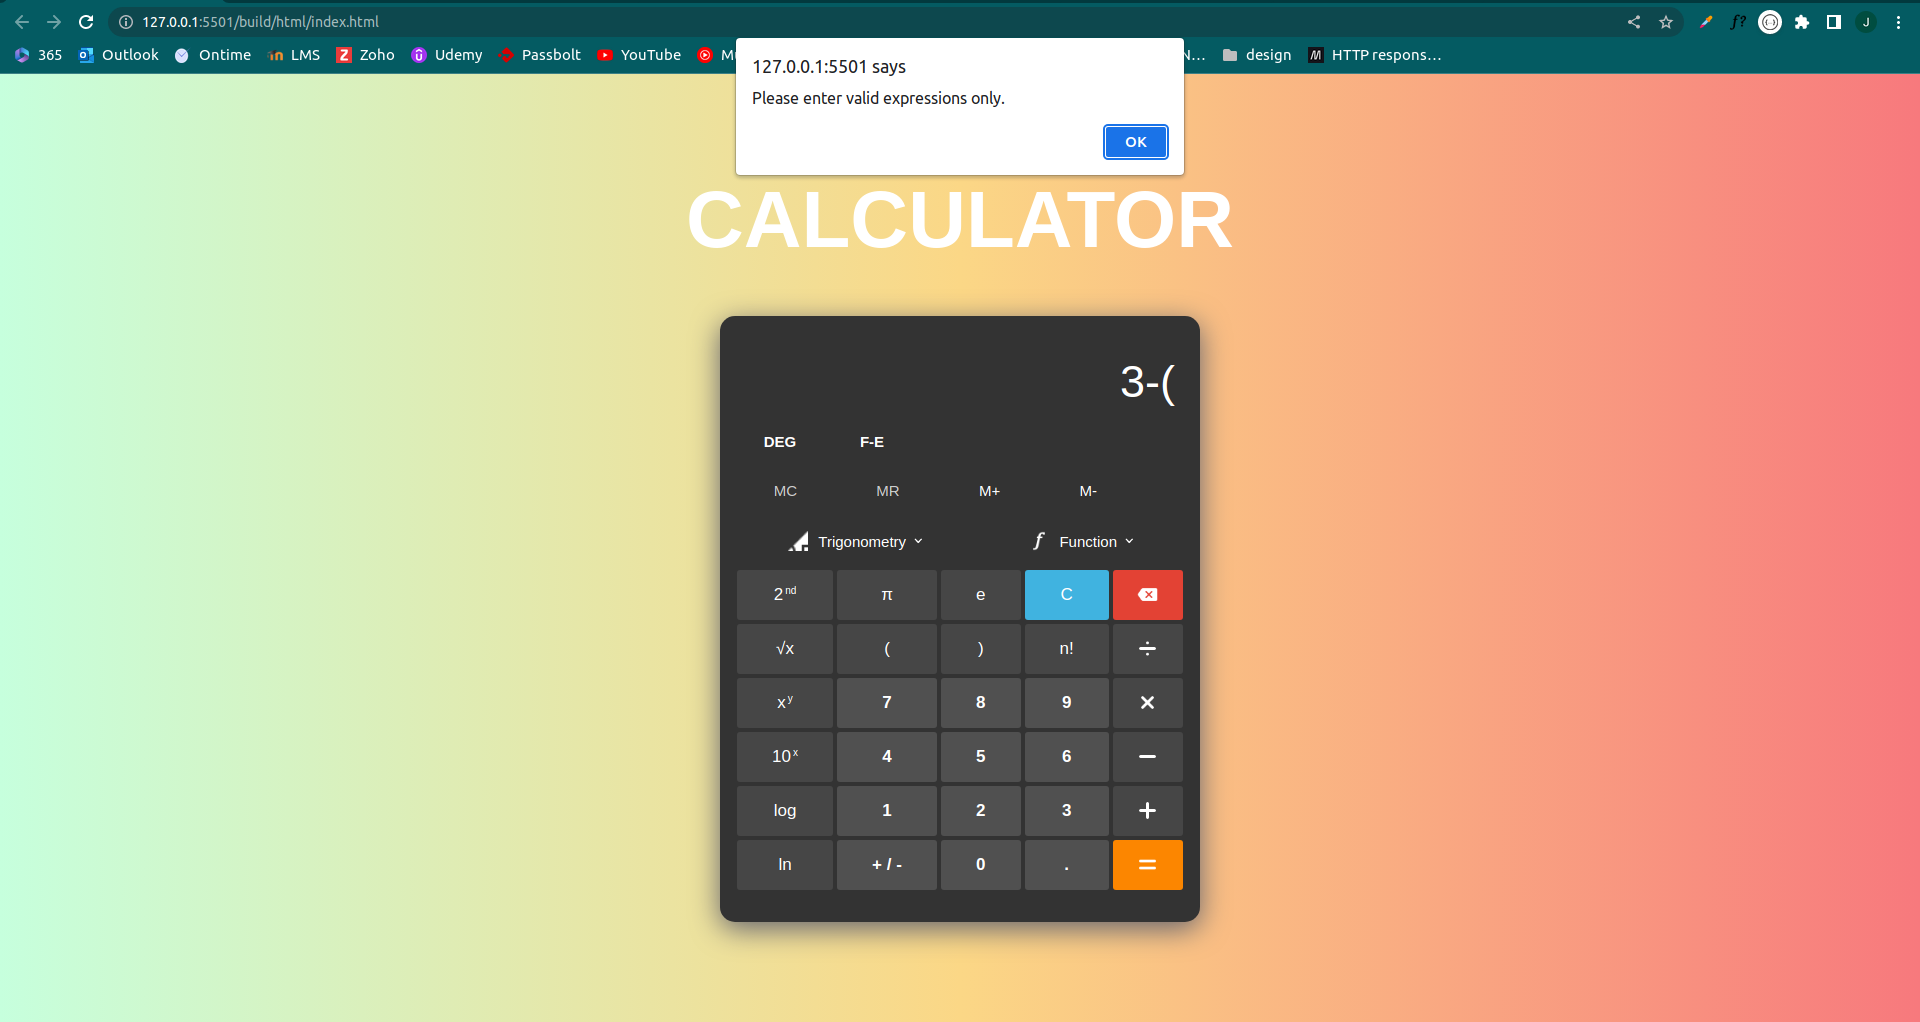
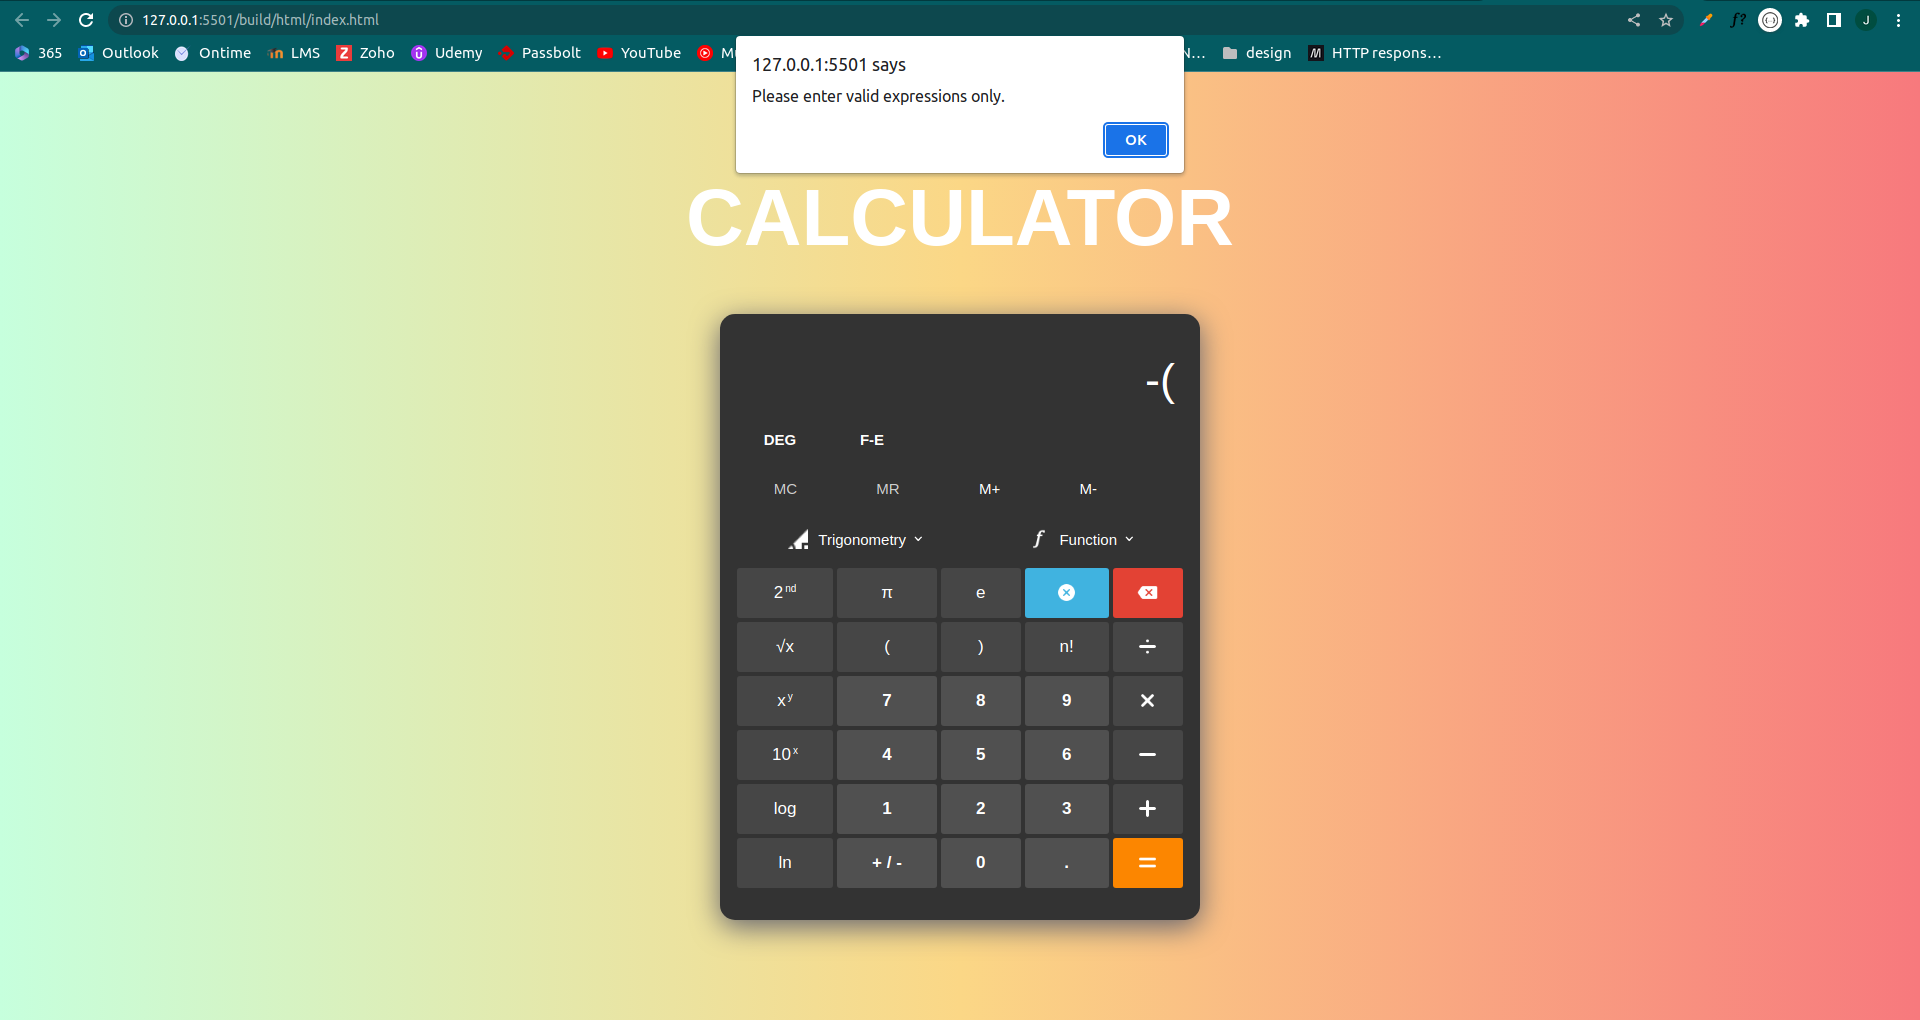
fix: change design and refact REDME file

diff --git a/build/css/index.css b/build/css/index.css
@@ -199,7 +199,7 @@ sup{
     background-color: rgb(226, 38, 21);
 }
 
-.back, .divide, .multiply, .minus, .plus, .equal{
+.back, .divide, .multiply, .minus, .plus, .equal, .clear{
     background-repeat: no-repeat;
     background-position: center;
     background-size: 30%;
@@ -207,15 +207,24 @@ sup{
 .divide{
     background-image: url('../assests/division.png');
 }
+
 .multiply{
     background-image: url('../assests/multiplication.png');
 }
+
 .minus{
     background-image: url('../assests/substraction.png');
 }
+
 .plus{
     background-image: url('../assests/plus.png');
 }
+
 .equal{
     background-image: url('../assests/equal.png');
+}
+
+.clear{
+    background-image: url('../assests/clear.png');
+    background-size: 25%;
 }

diff --git a/build/html/index.html b/build/html/index.html
@@ -80,7 +80,7 @@
                     <div class="itemof4">2<sup>nd</sup></div>
                     <div class="itemof4" id="pie">&#960;</div>
                     <div class="itemof4" id="e">e</div>
-                    <div class="itemof4 clear" id="clear">C</div>
+                    <div class="itemof4 clear" id="clear"></div>
                     <div class="itemof4 back" id="back"></div>
                     <div class="itemof4" id="root">&#8730;x</div>
                     <div class="itemof4" id="(">(</div>
